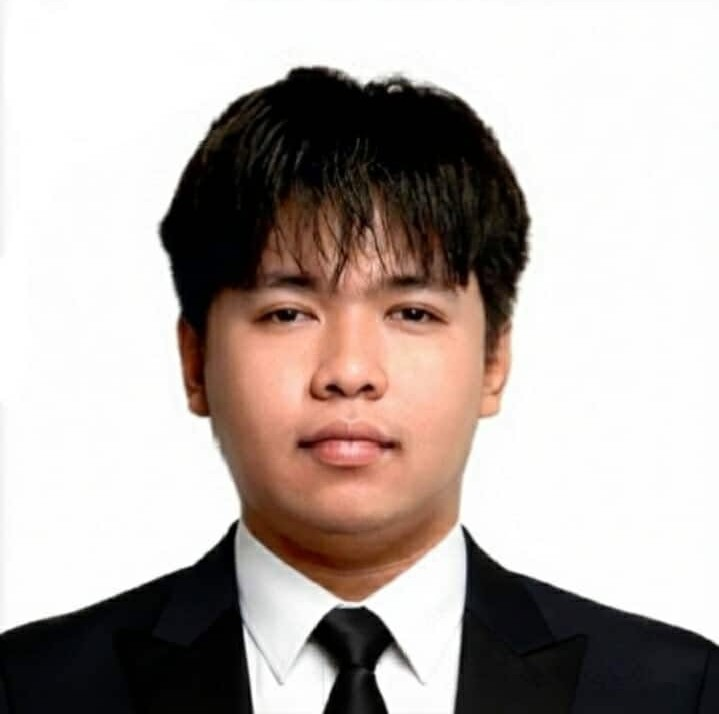
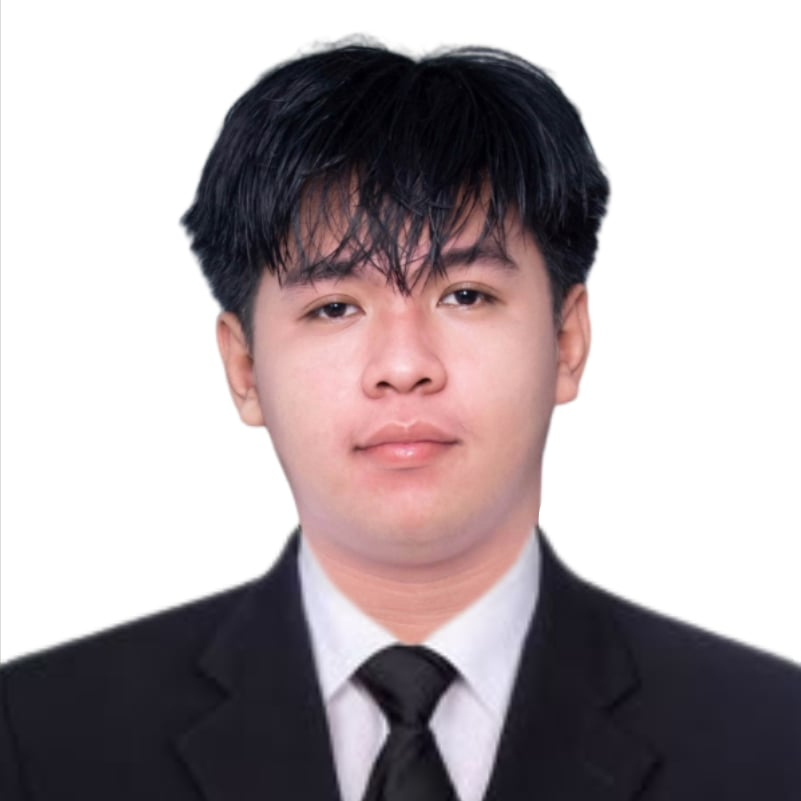
Fix Bugs found in Load Testing

diff --git a/src/lib/tours.ts b/src/lib/tours.ts
@@ -697,7 +697,7 @@ const coursesDesktop: DriveStep[] = [
   {
     element: '#courseSearchBar',
     popover: {
-      title: '🔍 Search Course Folder',
+      title: '🔍 Search  Folder',
       description: 'Quickly find a folder by typing part of its name here.',
       side: 'left',
     },
@@ -705,7 +705,7 @@ const coursesDesktop: DriveStep[] = [
   {
     element: '#coursesGrid',
     popover: {
-      title: '📁 Your Course Folders',
+      title: '📁 Your Folders',
       description: 'All your files folders live here. Click one to open it and see the files inside.',
       side: 'right',
     },
@@ -713,7 +713,7 @@ const coursesDesktop: DriveStep[] = [
   {
     element: '#courseFolder',
     popover: {
-      title: '📁 Course Folder',
+      title: '📁 File Folder',
       description:
         'Open this folder to view, upload, and organize your academic files.',
       side: 'right',
@@ -734,7 +734,7 @@ const coursesTablet: DriveStep[] = [
   {
     element: '#courseSearchBar',
     popover: {
-      title: '🔍 Search Course Folder',
+      title: '🔍 Search Files Folder',
       description: 'Quickly find a folder by typing part of its name here.',
       side: 'bottom',
     },
@@ -750,7 +750,7 @@ const coursesTablet: DriveStep[] = [
   {
     element: '#coursesGrid',
     popover: {
-      title: '📁 Your Course Folders',
+      title: '📁 Your Folders',
       description: 'All your files folders live here. Tap one to open it and see the files inside.',
       side: 'bottom',
     },
@@ -758,7 +758,7 @@ const coursesTablet: DriveStep[] = [
   {
     element: '#courseFolder',
     popover: {
-      title: '📁 Course Folder',
+      title: '📁 File Folder',
       description:
         'Open this folder to view, upload, and organize your academic files.',
       side: 'right',
@@ -779,7 +779,7 @@ const coursesMobile: DriveStep[] = [
   {
     element: '#courseSearchBar',
     popover: {
-      title: '🔍 Search Course Folder',
+      title: '🔍 Search Folders',
       description: 'Quickly find a folder by typing part of its name here.',
       side: 'bottom',
     },
@@ -795,7 +795,7 @@ const coursesMobile: DriveStep[] = [
   {
     element: '#coursesGrid',
     popover: {
-      title: '📁 Your Course Folders',
+      title: '📁 Your Files Folders',
       description: 'All your files folders live here. Tap one to open it and see the files inside.',
       side: 'bottom',
     },
@@ -803,7 +803,7 @@ const coursesMobile: DriveStep[] = [
   {
     element: '#courseFolder',
     popover: {
-      title: '📁 Course Folder',
+      title: '📁 Files Folder',
       description:
         'Open this folder to view, upload, and organize your academic files.',
       side: 'bottom',
@@ -825,7 +825,7 @@ const coursefolderDesktop: DriveStep[] = [
     popover: {
       title: '⬅ Go Back',
       description:
-        'Click here anytime to return to the Course Folder.',
+        'Click here anytime to return to the Files Folder.',
       side: 'right',
     },
   },
@@ -841,7 +841,7 @@ const coursefolderDesktop: DriveStep[] = [
     element: '#uploadFilesBtn',
     popover: {
       title: '⬆ Upload Files',
-      description: 'Click here to upload a new file to this course folder. Max 10 MB per file.',
+      description: 'Click here to upload a new file to this folder. Max 10 MB per file.',
       side: 'left',
     },
   },
@@ -878,7 +878,7 @@ const coursefolderTablet: DriveStep[] = [
     popover: {
       title: '⬅ Go Back',
       description:
-        'Click here anytime to return to the Course Folder.',
+        'Click here anytime to return to the Files Folder.',
       side: 'right',
     },
   },
@@ -931,7 +931,7 @@ const coursefolderMobile: DriveStep[] = [
     popover: {
       title: '⬅ Go Back',
       description:
-        'Click here anytime to return to the Course Folder.',
+        'Click here anytime to return to the Files Folder.',
       side: 'right',
     },
   },
@@ -989,7 +989,7 @@ const studygeneratorDesktop: DriveStep[] = [
   {
     element: '#courseFilesBtn',
     popover: {
-      title: '📁 Use a Course File',
+      title: '📁 Use a File',
       description: 'Already uploaded a file to one of your course folders? Pick it here instead.',
       side: 'bottom',
     },
@@ -1057,7 +1057,7 @@ const studygeneratorTablet: DriveStep[] = [
   {
     element: '#courseFilesBtn',
     popover: {
-      title: '📁 Use a Course File',
+      title: '📁 Use a File',
       description: 'Already uploaded a file to one of your course folders? Pick it here instead.',
       side: 'bottom',
     },
@@ -1117,7 +1117,7 @@ const studygeneratorMobile: DriveStep[] = [
   {
     element: '#courseFilesBtn',
     popover: {
-      title: '📁 Use a Course File',
+      title: '📁 Use a File',
       description: 'Already uploaded a file to one of your course folders? Pick it here instead.',
       side: 'bottom',
     },
@@ -1324,7 +1324,7 @@ const recentlydeletedDesktop: DriveStep[] = [
     element: '#filterTypeSelect',
     popover: {
       title: '🔀 Filter by Type',
-      description: 'Switch between To Do, Notes, Class Schedule, Course, Quiz, and Flashcard items.',
+      description: 'Switch between To Do, Notes, Class Schedule, My Files, Quiz, and Flashcard items.',
       side: 'left',
     },
   },
@@ -1368,7 +1368,7 @@ const recentlydeletedTablet: DriveStep[] = [
     element: '#filterTypeSelect',
     popover: {
       title: '🔀 Filter by Type',
-      description: 'Switch between To Do, Notes, Class Schedule, Course, Quiz, and Flashcard items.',
+      description: 'Switch between To Do, Notes, Class Schedule, My Files, Quiz, and Flashcard items.',
       side: 'left',
     },
   },
@@ -1412,7 +1412,7 @@ const recentlydeletedMobile: DriveStep[] = [
     element: '#filterTypeSelect',
     popover: {
       title: '🔀 Filter by Type',
-      description: 'Switch between To Do, Notes, Class Schedule, Course, Quiz, and Flashcard items.',
+      description: 'Switch between To Do, Notes, Class Schedule, My Files, Quiz, and Flashcard items.',
       side: 'bottom',
     },
   },

diff --git a/src/pages/CourseFolder.tsx b/src/pages/CourseFolder.tsx
@@ -361,7 +361,7 @@
         <div  className='lg:hidden flex items-center justify-between px-4 sm:px-6 py-2 bg-white  top-0 left-0 right-0 z-10 relative'>
           <button
 id='goBackBtn-mobile'
-                title="Go Back to Courses"
+                title="Go Back to My Files"
                 onClick={() => navigate('/myFiles')}
                 className="flex flex-col items-center md:pl-0 lg:pl-0 xl:pl-0 2xl:pl-0 px-3 py-1 rounded hover:bg-gray-100 transition"
               >
@@ -374,7 +374,7 @@ id='goBackBtn-mobile'
               <p className="hidden text-3xl lg:text-4xl md:text-4xl font-bold text-primary-600 uppercase font-roboto">
                 {folderName}
               </p>
-          <p className='absolute left-1/2 -translate-x-1/2 font-inter mt-4 font-semibold text-xl text-[#B3B3B3] uppercase'>Courses</p>
+          <p className='absolute left-1/2 -translate-x-1/2 font-inter mt-4 font-semibold text-xl text-[#B3B3B3] uppercase'>My Files</p>
             <button
             id='tour-btn'
               onClick={() => startTour()}
@@ -392,13 +392,13 @@ id='goBackBtn-mobile'
               <div className="min-h-screen  w-full flex flex-col">
                   <p className='hidden lg:flex justify-center lg:justify-start w-full lg:pl-3 2xl:p-4  
                   font-inter font-semibold text-sm md:text-md lg:text-[10px] xl:text-[12px] 2xl:text-[14px] text-[#B3B3B3] uppercase
-                  mt-2 md:mt-4 lg:mt-1 xl:mt-2 2xl:mt-3 '>Courses</p>
+                  mt-2 md:mt-4 lg:mt-1 xl:mt-2 2xl:mt-3 '>My Files</p>
                 {/* Header */}
                 <div className='flex mt-1   lg:mt-0 flex-col md:flex-row  md:justify-between md:items-center  lg:justify-between lg:items-center w-full gap-3 mb-6 lg:mb-0'>
                   <div className="hidden   lg:flex items-center   gap-4">
                     <button
                       id='goBackBtn-desktop'
-                      title="Go Back to Courses"
+                      title="Go Back to My Files"
                       onClick={() => navigate('/myFiles')}
                       className="flex flex-col items-center md:pl-16 lg:pl-0 xl:pl-0 2xl:pl-0 px-3 py-1 lg:py-0 rounded hover:bg-gray-100 transition"
                     >

diff --git a/src/pages/Courses.tsx b/src/pages/Courses.tsx
@@ -190,7 +190,7 @@ const { startTour } = useTour(
 
               {/* Top Bar — mobile only */}
         <div className='lg:hidden flex items-center justify-between px-4 sm:px-6 py-2 bg-white  top-0 left-0 right-0 z-10 relative'>
-          <p className='absolute left-1/2 -translate-x-1/2 font-inter mt-4 font-semibold text-xl text-[#B3B3B3] uppercase'>Courses</p>
+          <p className='absolute left-1/2 -translate-x-1/2 font-inter mt-4 font-semibold text-xl text-[#B3B3B3] uppercase'>My Files</p>
             <button
             id='tour-btn'
               onClick={() => startTour()}
@@ -208,7 +208,7 @@ const { startTour } = useTour(
         <div className="min-h-screen  w-full flex flex-col">
             <p className='hidden lg:flex justify-center lg:justify-start w-full lg:pl-3 2xl:p-4  
             font-inter font-semibold text-sm md:text-md lg:text-[10px] xl:text-[12px] 2xl:text-[14px] text-[#B3B3B3] uppercase
-            mt-2 md:mt-4 lg:mt-1 xl:mt-2 2xl:mt-3 '>Courses</p>
+            mt-2 md:mt-4 lg:mt-1 xl:mt-2 2xl:mt-3 '>My Files</p>
           {/* Header */}
         <div className="flex flex-col w-full lg:flex lg:flex-row md:flex-row 
           px-14 sm:px-12 justify-center items-center py-1
@@ -431,7 +431,7 @@ const { startTour } = useTour(
                   <img src="X.png" alt="X" className='select-none' onContextMenu={(e) => e.preventDefault()} draggable={false} />
                 </button>
                 <p className='ml-12 md:ml-20 text-2xl font-bold font-roboto text-white uppercase'>
-                  Edit Course
+                  Edit Folder
                 </p>
               </div>
                 <div className='flex flex-row w-full gap-2'>

diff --git a/src/App.tsx b/src/App.tsx
@@ -293,9 +293,9 @@ const [activeForm, setActiveForm] = useState<'signup' | 'login'>(() => {
           draggable={false}
           />
           <div className='text-primary-600 font-inter'>
-            <p className='font-bold text-[16px] md:text-[34px] lg:text-[28px] 2xl:text-[44px]'>Course</p>
+            <p className='font-bold text-[16px] md:text-[34px] lg:text-[28px] 2xl:text-[44px]'>My Files</p>
             <p className=' mr-2 text-[12px] md:text-[14px] lg:text-[13px] 2xl:text-[15px]'>Organize your subjects and
-            materials by course. Keep
+            materials by folders. Keep
             everything related to each class
             neatly grouped and easy to find.</p>
           </div>

diff --git a/src/pages/Dashboard.tsx b/src/pages/Dashboard.tsx
@@ -206,7 +206,7 @@ function Dashboard() {
     { label: 'To Do List',     path: '/todolist',       color: '#FFD84D' },
     { label: 'Notes',          path: '/notes',          color: '#7FC4FF' },
     { label: 'Class Schedule', path: '/schedule',       color: '#B5E8A0' },
-    { label: 'Courses',        path: '/courses',        color: '#C9A9F0' },
+    { label: 'My Files',        path: '/courses',        color: '#C9A9F0' },
     { label: 'Study Generator',path: '/studyGenerator', color: '#FFB8D9' },
     { label: 'Generated History', path: '/history', color: '#FFB870' },
   ]

diff --git a/src/pages/RecentlyDeleted.tsx b/src/pages/RecentlyDeleted.tsx
@@ -565,7 +565,7 @@ function OrphanRestoreModal({
         </p>
         <div className='bg-blue-50 border border-blue-200 rounded-lg px-3 py-2 mb-5'>
           <p className='text-xs text-blue-700'>
-            This file will be restored to a <span className='font-bold'>Restored Files</span> folder in your Courses instead.
+            This file will be restored to a <span className='font-bold'>Restored Files</span> folder in your My Files instead.
           </p>
         </div>
         <div className='flex gap-3 justify-end'>

diff --git a/src/pages/StudyGenerator.tsx b/src/pages/StudyGenerator.tsx
@@ -114,7 +114,7 @@ function CoursePicker({
             <>
               {courses.length === 0 ? (
                 <p className='text-gray-400 font-roboto text-center py-10 3xl:text-lg'>
-                  No courses found. Create one in the Courses page first.
+                  No courses found. Create one in the My Files page first.
                 </p>
               ) : (
                 <div className='grid grid-cols-2 lg:grid-cols-4 2xl:grid-cols-3 gap-4 3xl:gap-6'>
